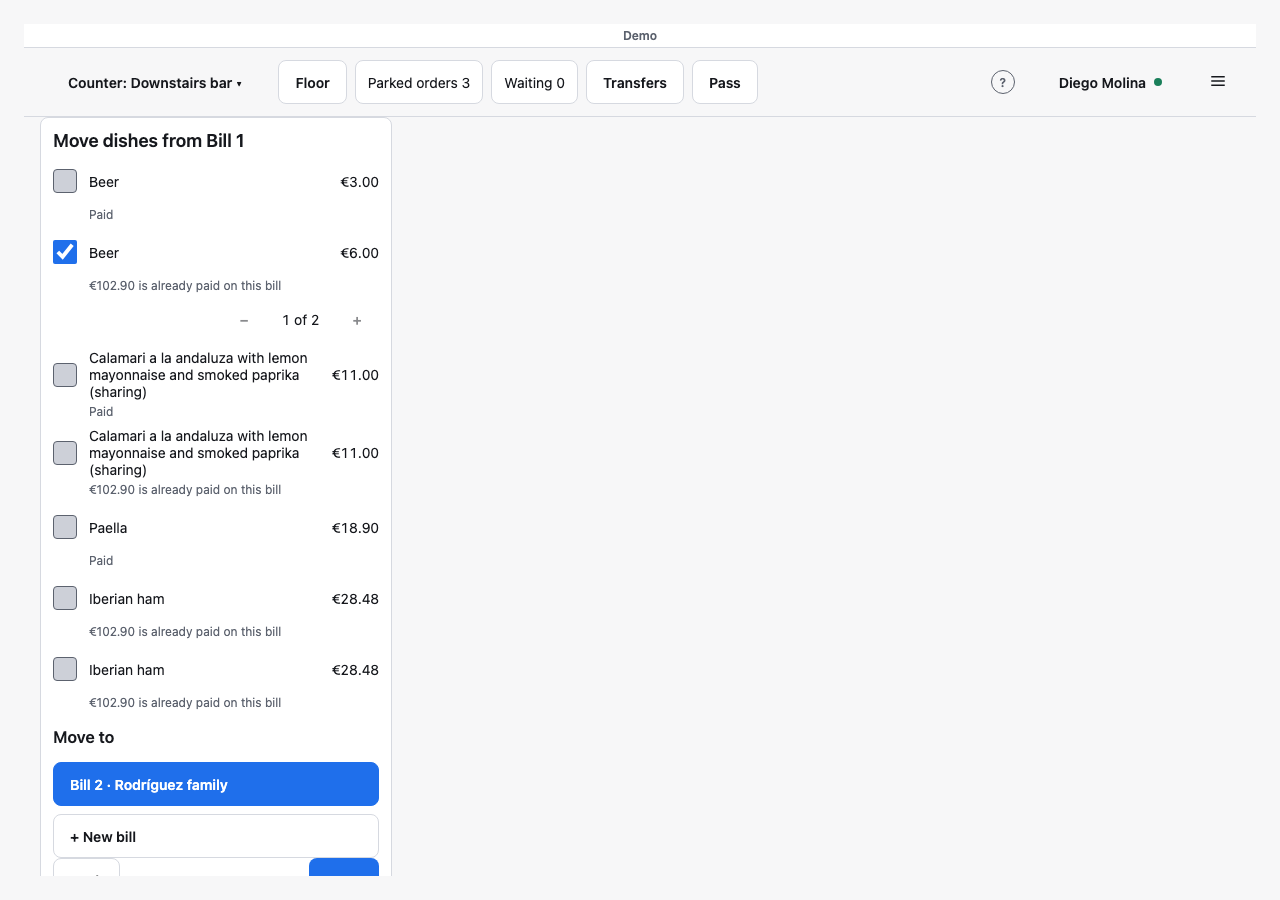
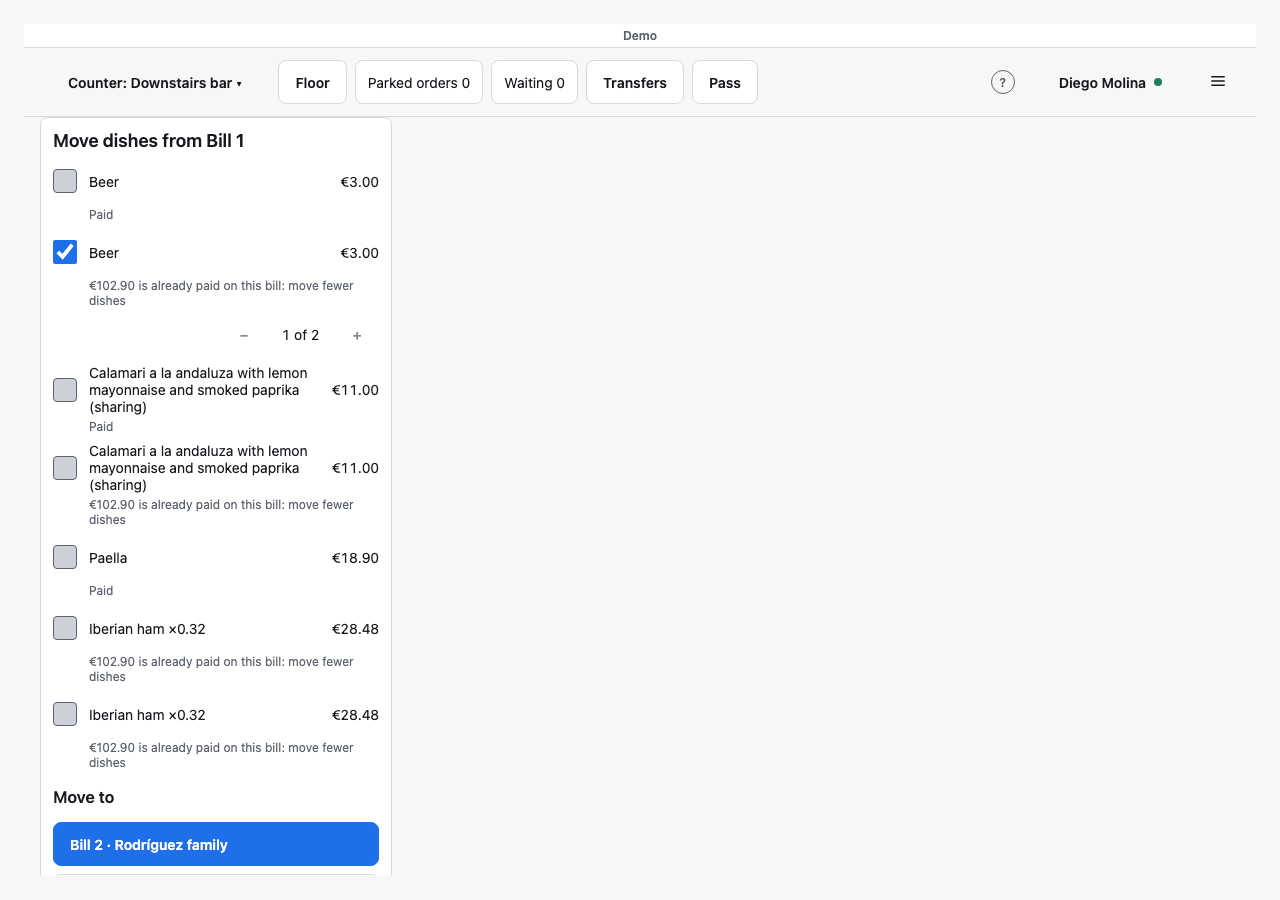
Move dishes: the owner pictures show the approved words and a part-paid destination
Three pictures re-taken in the demo stack at the branch tip: the grey
reason now reads '…: move fewer dishes' / «…: mueve menos platos», and a
bill with €5.00 already paid on it is offered under Move to. The same
run moved a €3.00 beer onto that bill: it owed €1.50 before and €4.50
after. A1290 records that the longer reason pushes Back and Move further
below the window.

Changed region(s): [[0.0312, 0.3111, 0.3125, 0.9956], [0.25, 0.56, 0.2812, 0.6222], [0.0625, 0.3111, 0.0938, 0.3422]]

diff --git a/docs/backlog.md b/docs/backlog.md
@@ -2173,6 +2173,10 @@ _Formerly the kitchen entries in the opening part of the old Track A (before A1)
   against Back with no gap. Both are the shared action panel's layout (`aside.action-panel` in
   `apps/till/src/screens/till-table-order-screen.ts`). Pictures `k2-panel-open`, `k5-move-active`
   (`~/waitron-campaign-c/a803-4-shots/`, not in the repository).
+  Since the grey reason gained ": move fewer dishes" (owner, 2026-11-01) it wraps onto two lines,
+  so Back and Move sit fully below the window at 1280×900 and are cut at the bottom at 390×844 in
+  Spanish (re-taken pictures `slice4a-paid-floor-long-names-destination.png`,
+  `slice4a-spanish-phone.png`).
 
 - **A1291. Another till's open Pay items list is not refreshed when dishes leave its bill (seen in
   A803 slice 4a's LOOK).** After a move, the dialog's totals updated but its list still showed the
